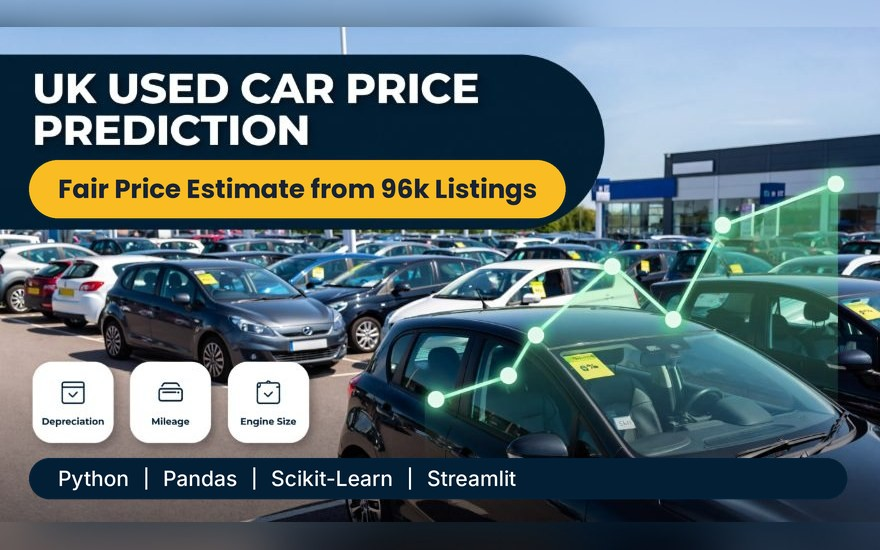
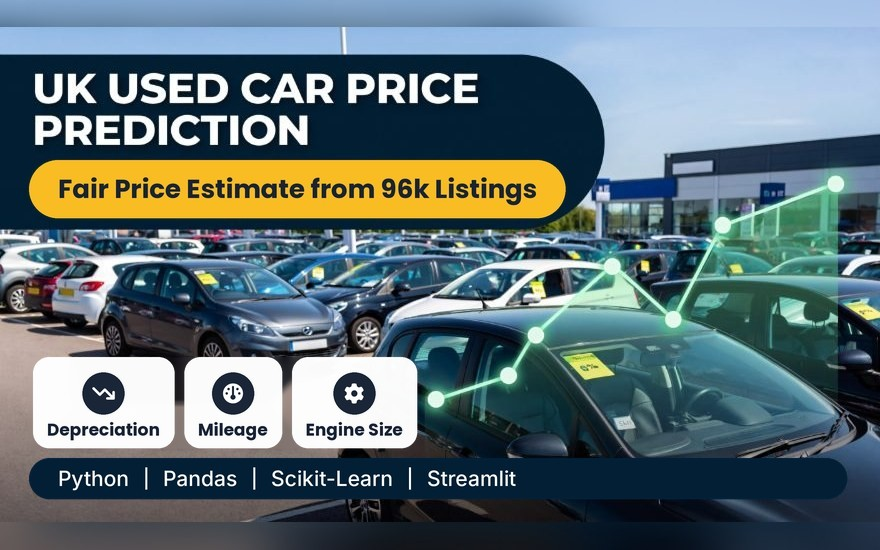
Redraw feature chips on all eight card posters with larger, readable labels
Icons from Font Awesome Free (CC BY 4.0).

Claude-Session: https://claude.ai/code/session_0149ZQrfuG7TBYKWBudKiQmk

Changed region(s): [[0.0307, 0.6491, 0.4909, 0.8345]]

diff --git a/data/projects.js b/data/projects.js
@@ -21,7 +21,7 @@ window.PROJECTS = [
     category: "data-analytics",
     description: "Analyzes student scores to find the subjects with the widest grade spread and visualizes how marks are distributed.",
     tech: ["Python", "Pandas", "Matplotlib", "Streamlit"],
-    image: "assets/images/student-marks-analysis.jpg?v=3",
+    image: "assets/images/student-marks-analysis.jpg?v=4",
     github: "https://github.com/Qasim00760/student-marks-analysis",
     live: "https://mq-student-marks-analysis.streamlit.app/"
   },
@@ -30,7 +30,7 @@ window.PROJECTS = [
     category: "data-analytics",
     description: "Explores match data through run rates, wicket trends and strike patterns, with run-curve charts for each game situation.",
     tech: ["Python", "Pandas", "Seaborn", "Streamlit"],
-    image: "assets/images/cricket-score-analysis.jpg?v=3",
+    image: "assets/images/cricket-score-analysis.jpg?v=4",
     github: "https://github.com/Qasim00760/cricket-score-analysis",
     live: "https://mq-cricket-score-analysis.streamlit.app/"
   },
@@ -39,7 +39,7 @@ window.PROJECTS = [
     category: "data-analytics",
     description: "Explores 421k weekly sales records from 45 Walmart stores to measure holiday peaks, store size effects and which factors actually drive sales.",
     tech: ["Python", "Pandas", "Seaborn", "SciPy", "Streamlit"],
-    image: "assets/images/walmart-retail-sales-eda.jpg?v=3",
+    image: "assets/images/walmart-retail-sales-eda.jpg?v=4",
     github: "https://github.com/Qasim00760/walmart-retail-sales-eda",
     live: "https://mq-walmart-retail-sales-eda.streamlit.app/"
   },
@@ -48,7 +48,7 @@ window.PROJECTS = [
     category: "data-analytics",
     description: "Analyzes 5,000 emergency room visits to find what drives patient waits, and predicts a new patient's wait at arrival with a leakage-free Gradient Boosting model (R2 0.94).",
     tech: ["Scikit-Learn", "Pandas", "Seaborn", "Streamlit"],
-    image: "assets/images/er-wait-time-prediction.jpg?v=3",
+    image: "assets/images/er-wait-time-prediction.jpg?v=4",
     github: "https://github.com/Qasim00760/er-wait-time-prediction",
     live: "https://mq-er-wait-time-prediction.streamlit.app/"
   },
@@ -59,7 +59,7 @@ window.PROJECTS = [
     category: "machine-learning",
     description: "Gradient Boosting model trained on 96k UK used car listings that prices a car from its make, model, age, mileage and specs to within 6.6% on average (R2 0.97).",
     tech: ["Scikit-Learn", "Gradient Boosting", "Pandas", "Streamlit"],
-    image: "assets/images/car-price-prediction.jpg?v=3",
+    image: "assets/images/car-price-prediction.jpg?v=4",
     github: "https://github.com/Qasim00760/car-price-prediction",
     live: "https://mq-car-price-prediction.streamlit.app/"
   },
@@ -68,7 +68,7 @@ window.PROJECTS = [
     category: "machine-learning",
     description: "Predicts a tunnel boring machine's next-stroke penetration from thrust, torque, RPM, rock quality and recent strokes, validated on unseen tunnel sections, and flags slow strokes ahead of time.",
     tech: ["Random Forest", "Scikit-Learn", "Pandas", "Streamlit"],
-    image: "assets/images/tbm-penetration-prediction.jpg?v=3",
+    image: "assets/images/tbm-penetration-prediction.jpg?v=4",
     github: "https://github.com/Qasim00760/tbm-penetration-prediction",
     live: "https://mq-tbm-penetration-prediction.streamlit.app/"
   },
@@ -77,7 +77,7 @@ window.PROJECTS = [
     category: "machine-learning",
     description: "Scores each employee's risk of leaving and explains the score. Logistic Regression beat Random Forest and XGBoost in cross-validation (ROC-AUC 0.83) and catches 74% of leavers.",
     tech: ["Scikit-Learn", "XGBoost", "Classification", "Streamlit"],
-    image: "assets/images/employee-attrition-prediction.jpg?v=3",
+    image: "assets/images/employee-attrition-prediction.jpg?v=4",
     github: "https://github.com/Qasim00760/employee-attrition-prediction",
     live: "https://mq-employee-attrition-prediction.streamlit.app/"
   },
@@ -86,7 +86,7 @@ window.PROJECTS = [
     category: "machine-learning",
     description: "Scores a news article's chance of going popular on social media before it is published, trained on 39k real Mashable articles and tested on newer ones (ROC-AUC 0.74).",
     tech: ["Gradient Boosting", "Scikit-Learn", "Pandas", "Streamlit"],
-    image: "assets/images/social-media-shares-prediction.jpg?v=3",
+    image: "assets/images/social-media-shares-prediction.jpg?v=4",
     github: "https://github.com/Qasim00760/social-media-shares-prediction",
     live: "https://mq-social-media-shares-prediction.streamlit.app/"
   },

diff --git a/index.html b/index.html
@@ -307,7 +307,7 @@
     </button>
   </div>
 
-  <script src="./data/projects.js?v=23"></script>
+  <script src="./data/projects.js?v=24"></script>
   <script src="./assets/js/script.js?v=7"></script>
 
   <script>
